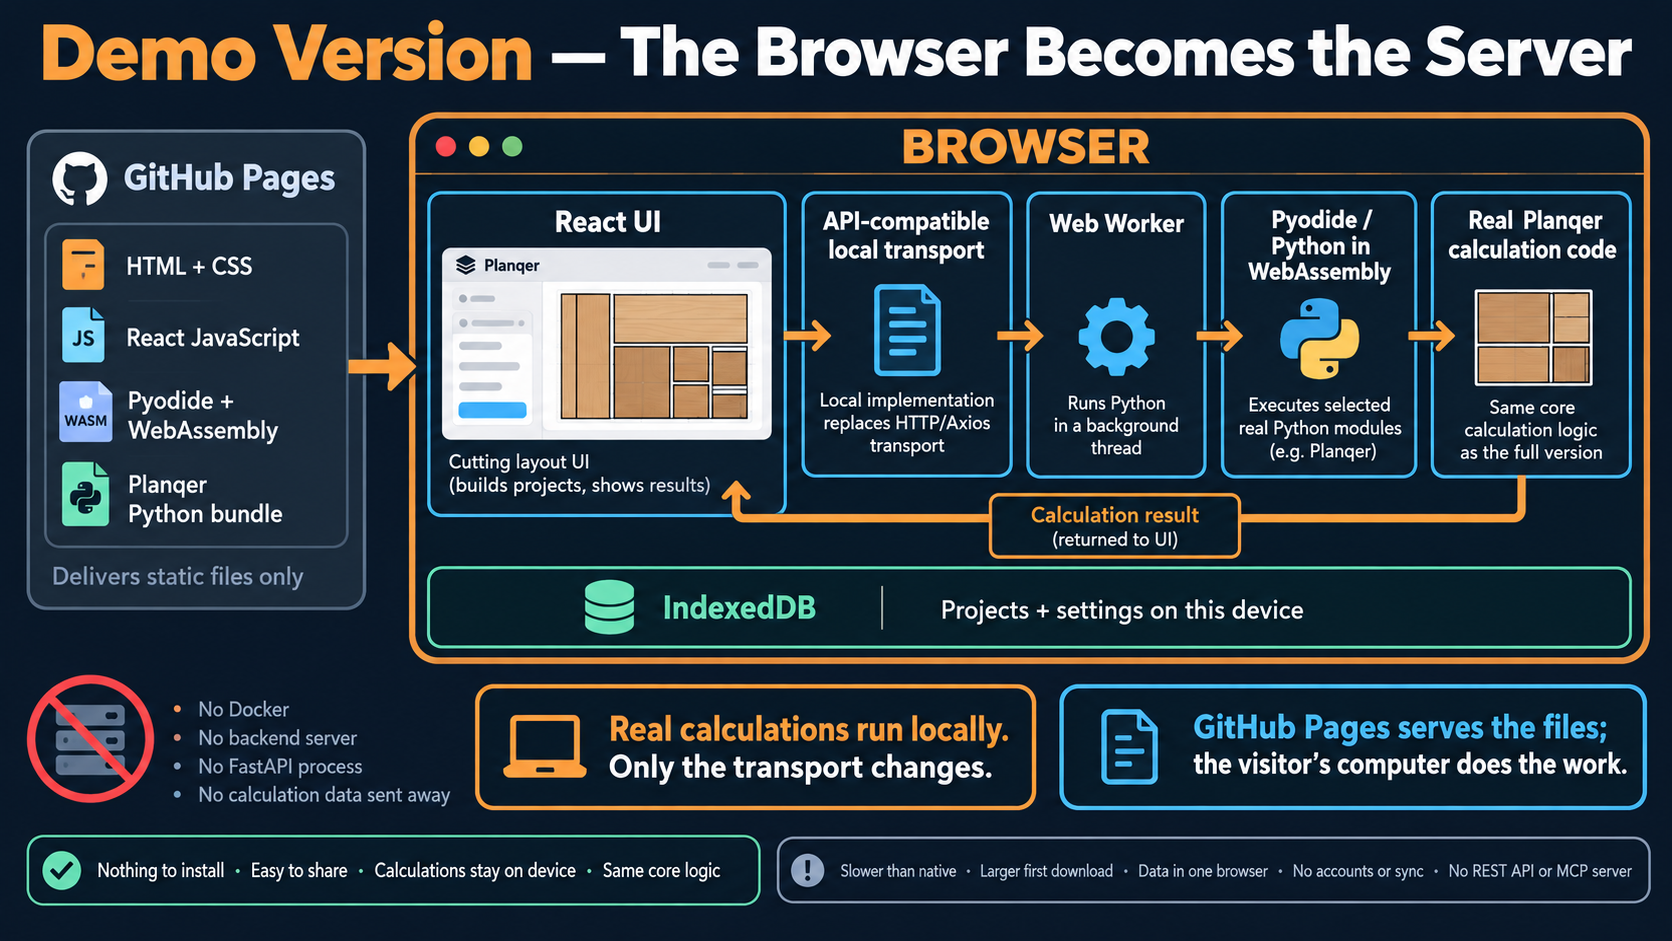
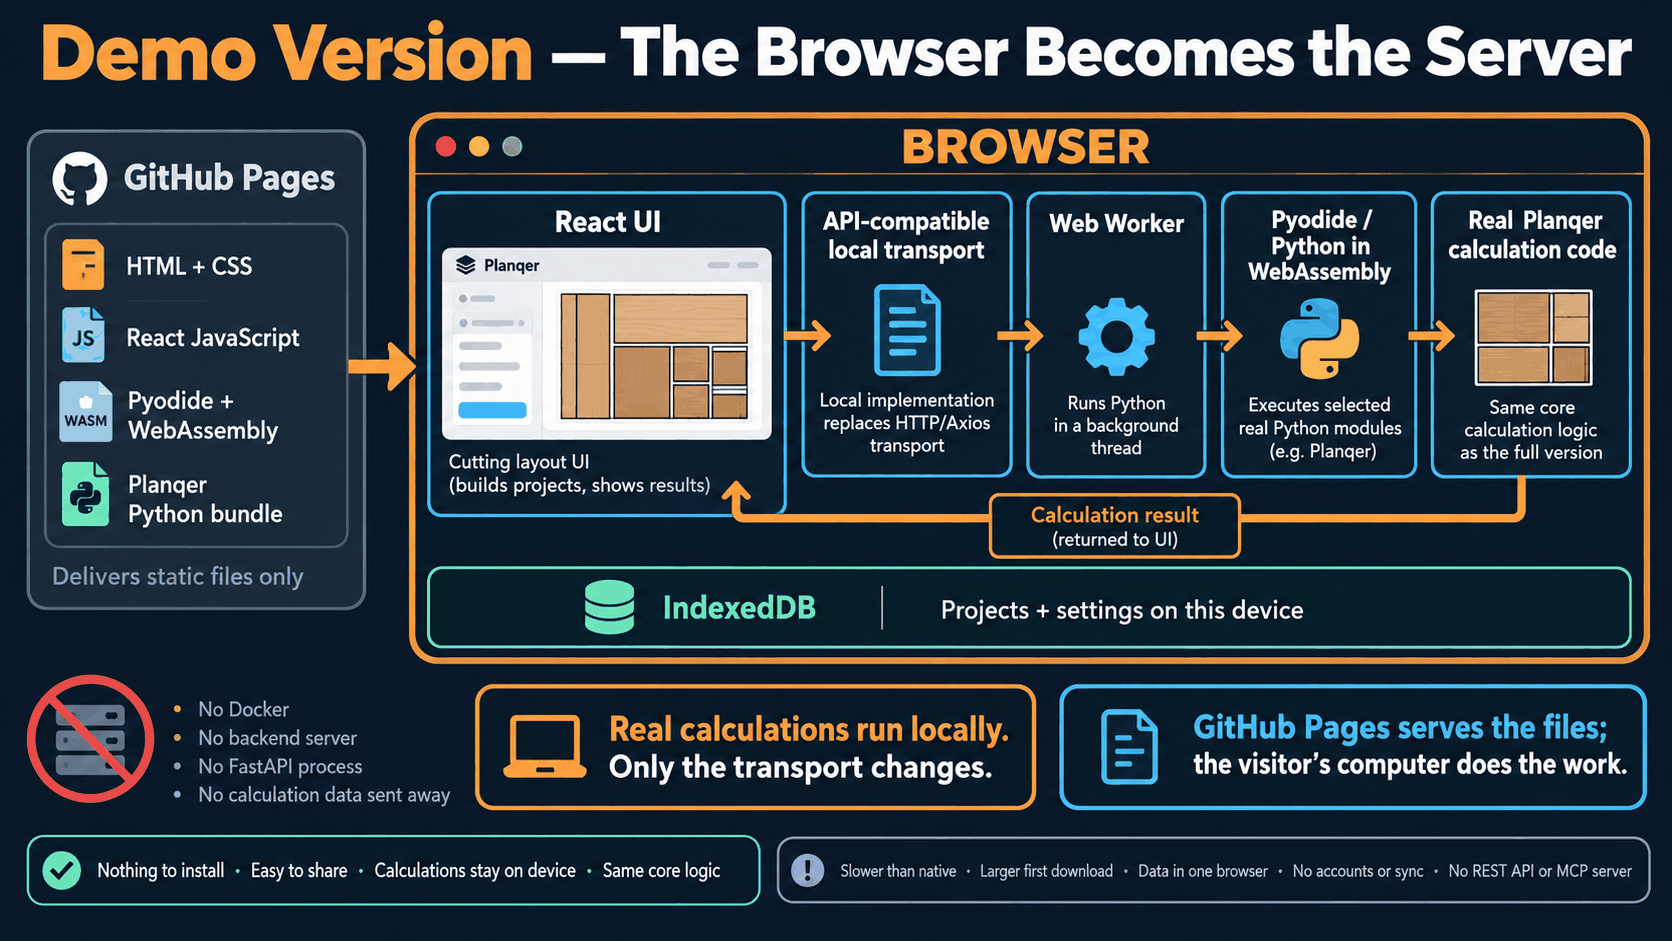
fix: address review of the runtime error and docs changes
- Leave stage out of runtime_error when the failure was not classified,
  instead of reporting it as a calculation failure.
- Describe the tool and stage on the privacy page.
- Shrink the three diagrams from about 4.8 MB to 1.8 MB.

Changed region(s): [[0.0311, 0.3082, 0.0622, 0.4623], [0.7775, 0.3698, 0.8086, 0.4006], [0.2799, 0.1541, 0.311, 0.1849]]

diff --git a/frontend/src/runtime/solver.analytics.test.js b/frontend/src/runtime/solver.analytics.test.js
@@ -74,13 +74,19 @@ it("counts a timeout, but not a cancel", async () => {
 });
 
 it("counts an engine that cannot start", async () => {
-  client.call.mockRejectedValue(new Error("boom"));
+  client.call.mockRejectedValue(Object.assign(new Error("boom"), { analyticsStage: "calculation" }));
   await expect(solver.solverCall("tile_layout", {})).rejects.toThrow();
   expect(track).toHaveBeenCalledWith("runtime_error", {
     reason: "engine",
     tool: "tile",
     stage: "calculation",
   });
+});
+
+it("leaves the stage out when the failure did not come from the engine", async () => {
+  client.call.mockRejectedValue(new Error("not classified"));
+  await expect(solver.solverCall("tile_layout", {})).rejects.toThrow();
+  expect(track).toHaveBeenCalledWith("runtime_error", { reason: "engine", tool: "tile" });
 });
 
 it("counts a browser that cannot run the demo", async () => {

diff --git a/frontend/src/runtime/solver.js b/frontend/src/runtime/solver.js
@@ -68,7 +68,7 @@ function countFailure(op, error) {
   track("runtime_error", {
     reason: "engine",
     ...(TOOL[op] ? { tool: TOOL[op] } : {}),
-    stage: error.analyticsStage ?? "calculation",
+    ...(error.analyticsStage ? { stage: error.analyticsStage } : {}),
   });
 }
 

diff --git a/docs/privacy.md b/docs/privacy.md
@@ -24,8 +24,9 @@ personal information and does not follow you across websites.
 **What we collect, and why.** Which pages and tools are opened, whether an
 optimisation succeeded or failed, whether a project was saved or exported,
 whether a "full version" link was clicked, and whether the calculation engine
-could not start. Umami also records your browser, operating system, screen
-size, language and country. We use this only to learn which features are used
+failed, with the tool in use and the stage (starting up, calculating or
+crashing), but never the error text. Umami also records your browser,
+operating system, screen size, language and country. We use this only to learn which features are used
 and what is broken, so we can improve Planqer.
 
 **What we never collect.** Project names, measurements, uploaded files,
